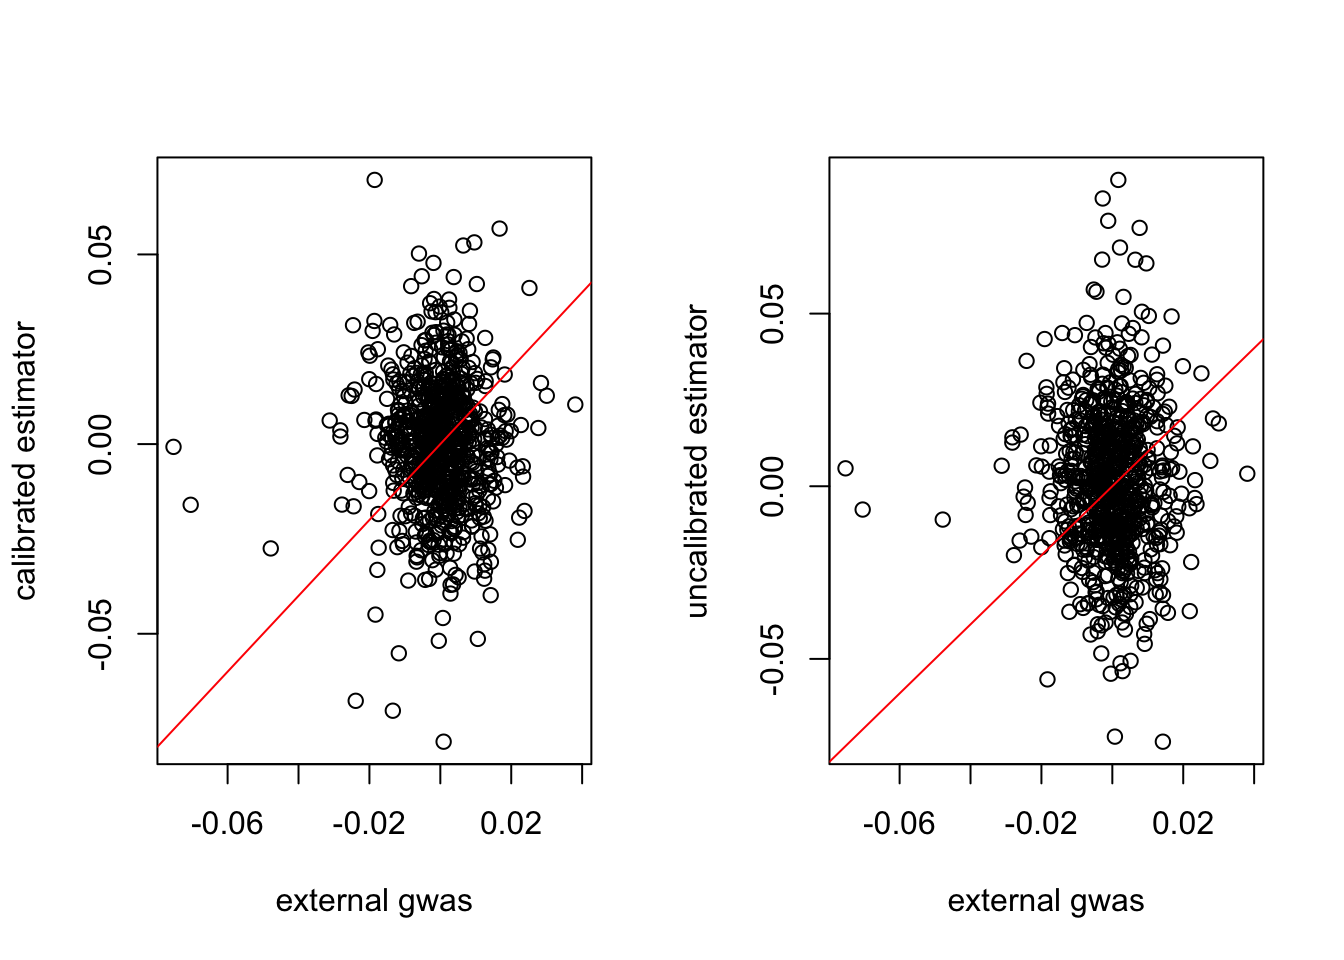
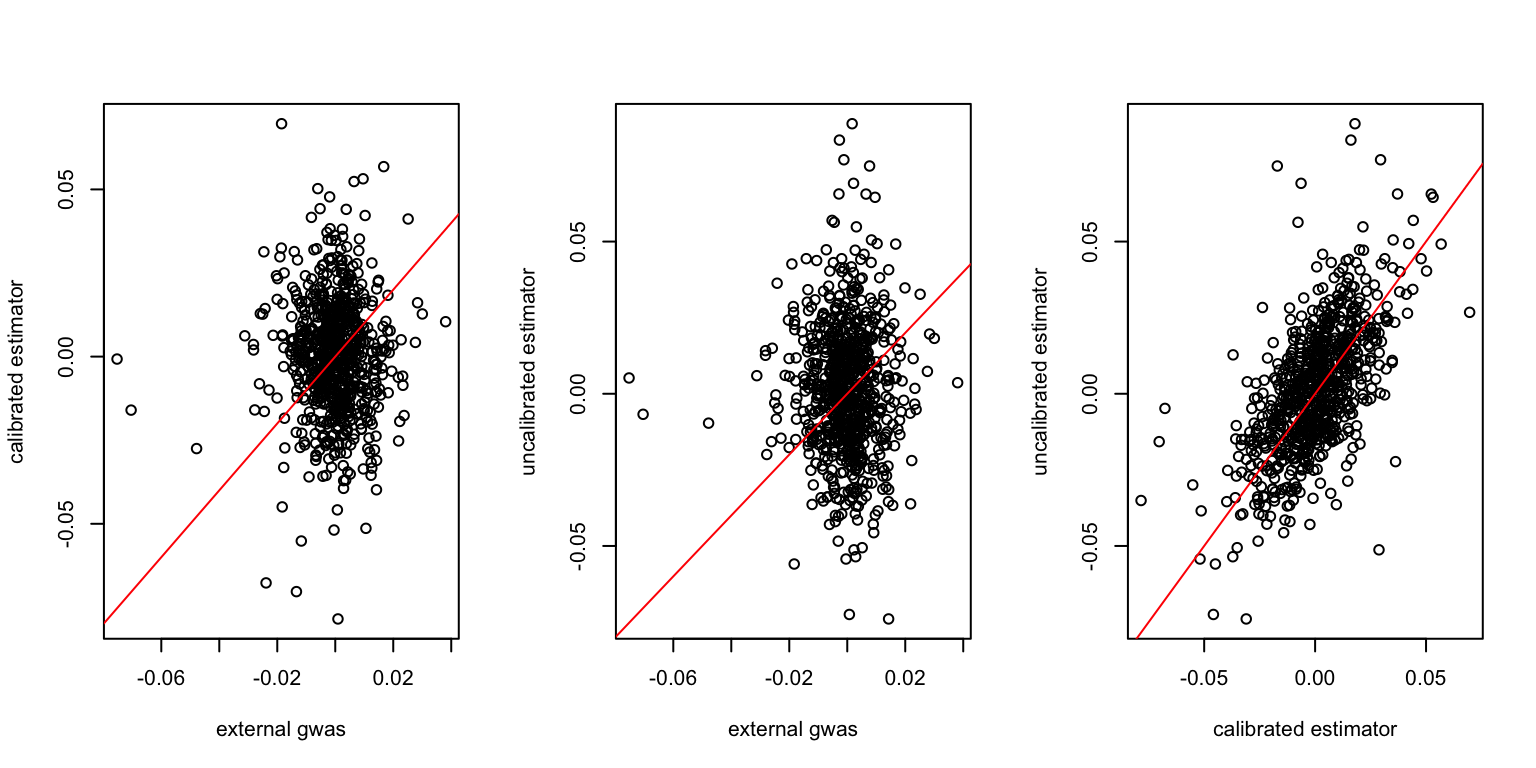
Build site.

diff --git a/docs/ukb_trait_calibration.html b/docs/ukb_trait_calibration.html
@@ -475,16 +475,16 @@ This reproducible <a href="http://rmarkdown.rstudio.com">R Markdown</a> analysis
 <div class="panel panel-default">
 <div class="panel-heading">
 <p class="panel-title">
-<a data-toggle="collapse" data-parent="#workflowr-checks" href="#strongRepositoryversionstrongahrefhttpsgithubcomyunqiyang0215simulationcalibratedmrtreea345290223d11e09a9ee22cf0b72735ce5e09314targetblanka345290a"> <span class="glyphicon glyphicon-ok text-success" aria-hidden="true"></span> <strong>Repository version:</strong> <a href="https://github.com/yunqiyang0215/simulation-calibrated-mr/tree/a345290223d11e09a9ee22cf0b72735ce5e09314" target="_blank">a345290</a> </a>
+<a data-toggle="collapse" data-parent="#workflowr-checks" href="#strongRepositoryversionstrongahrefhttpsgithubcomyunqiyang0215simulationcalibratedmrtreea435a22b6d7da3b3b8bcaa146761af53e4e9d98ftargetblanka435a22a"> <span class="glyphicon glyphicon-ok text-success" aria-hidden="true"></span> <strong>Repository version:</strong> <a href="https://github.com/yunqiyang0215/simulation-calibrated-mr/tree/a435a22b6d7da3b3b8bcaa146761af53e4e9d98f" target="_blank">a435a22</a> </a>
 </p>
 </div>
[2 lines of base64/hex data omitted]
 <div class="panel-body">
 <p>
 Great! You are using Git for version control. Tracking code development and connecting the code version to the results is critical for reproducibility.
 </p>
 <p>
-The results in this page were generated with repository version <a href="https://github.com/yunqiyang0215/simulation-calibrated-mr/tree/a345290223d11e09a9ee22cf0b72735ce5e09314" target="_blank">a345290</a>. See the <em>Past versions</em> tab to see a history of the changes made to the R Markdown and HTML files.
+The results in this page were generated with repository version <a href="https://github.com/yunqiyang0215/simulation-calibrated-mr/tree/a435a22b6d7da3b3b8bcaa146761af53e4e9d98f" target="_blank">a435a22</a>. See the <em>Past versions</em> tab to see a history of the changes made to the R Markdown and HTML files.
 </p>
 <p>
 Note that you need to be careful to ensure that all relevant files for the analysis have been committed to Git prior to generating the results (you can use <code>wflow_publish</code> or <code>wflow_git_commit</code>). workflowr only checks the R Markdown file, but you know if there are other scripts or data files that it depends on. Below is the status of the Git repository when the results were generated:
@@ -537,6 +537,40 @@ Message
 </tr>
 </thead>
 <tbody>
+<tr>
+<td>
+Rmd
+</td>
+<td>
+<a href="https://github.com/yunqiyang0215/simulation-calibrated-mr/blob/a435a22b6d7da3b3b8bcaa146761af53e4e9d98f/analysis/ukb_trait_calibration.Rmd" target="_blank">a435a22</a>
+</td>
+<td>
+yunqiyang0215
+</td>
+<td>
+2024-05-08
+</td>
+<td>
+wflow_publish("analysis/ukb_trait_calibration.Rmd")
+</td>
+</tr>
+<tr>
+<td>
+html
+</td>
+<td>
+<a href="https://rawcdn.githack.com/yunqiyang0215/simulation-calibrated-mr/ebc2aa69d20d86ef0f8fcb5b60826c60040afa6d/docs/ukb_trait_calibration.html" target="_blank">ebc2aa6</a>
+</td>
+<td>
+yunqiyang0215
+</td>
+<td>
+2024-05-08
+</td>
+<td>
+Build site.
+</td>
+</tr>
 <tr>
 <td>
 Rmd
@@ -601,12 +635,14 @@ wflow_publish("analysis/ukb_trait_calibration.Rmd")
 ext = read.csv(&quot;/Users/nicholeyang/Downloads/calibrated_estimator/real-data-analysis/combined_bmi.linear&quot;, sep = &quot;\t&quot;)</code></pre>
 <pre class="r"><code>ext2 = ext[1:784, ]</code></pre>
 <pre class="r"><code># check estimate scale
-par(mfrow = c(1,2))
+par(mfrow = c(1,3))
 plot(ext2$BETA[1:784], sumstat[, &quot;cali&quot;], xlab = &quot;external gwas&quot;, ylab = &quot;calibrated estimator&quot;)
 abline(a = 0, b = 1, col = &quot;red&quot;)
 plot(ext2$BETA[1:784], sumstat[, &quot;raw&quot;], xlab = &quot;external gwas&quot;, ylab = &quot;uncalibrated estimator&quot;)
+abline(a = 0, b = 1, col = &quot;red&quot;)
+plot(sumstat[, &quot;cali&quot;], sumstat[, &quot;raw&quot;], xlab = &quot;calibrated estimator&quot;, ylab = &quot;uncalibrated estimator&quot;)
 abline(a = 0, b = 1, col = &quot;red&quot;)</code></pre>
-<p><img src="figure/ukb_trait_calibration.Rmd/unnamed-chunk-3-1.png" width="672" style="display: block; margin: auto;" /></p>
+<p><img src="figure/ukb_trait_calibration.Rmd/unnamed-chunk-3-1.png" width="768" style="display: block; margin: auto;" /></p>
 <p>
 <button type="button" class="btn btn-default btn-xs btn-workflowr btn-workflowr-fig" data-toggle="collapse" data-target="#fig-unnamed-chunk-3-1">
 Past versions of unnamed-chunk-3-1.png
@@ -651,6 +687,43 @@ abline(a = 0, b = 1, col = &quot;red&quot;)
 plot(ext2$BETA[1:784]/ext2$SE, sumstat[, &quot;raw&quot;]/sqrt(sumstat[, &quot;raw.var&quot;]), xlab = &quot;external gwas&quot;, ylab = &quot;uncalibrated estimator&quot;)
 abline(a = 0, b = 1, col = &quot;red&quot;)</code></pre>
 <p><img src="figure/ukb_trait_calibration.Rmd/unnamed-chunk-4-1.png" width="672" style="display: block; margin: auto;" /></p>
+<p>
+<button type="button" class="btn btn-default btn-xs btn-workflowr btn-workflowr-fig" data-toggle="collapse" data-target="#fig-unnamed-chunk-4-1">
+Past versions of unnamed-chunk-4-1.png
+</button>
+</p>
+<div id="fig-unnamed-chunk-4-1" class="collapse">
+<div class="table-responsive">
+<table class="table table-condensed table-hover">
+<thead>
+<tr>
+<th>
+Version
+</th>
+<th>
+Author
+</th>
+<th>
+Date
+</th>
+</tr>
+</thead>
+<tbody>
+<tr>
+<td>
+<a href="https://github.com/yunqiyang0215/simulation-calibrated-mr/blob/ebc2aa69d20d86ef0f8fcb5b60826c60040afa6d/docs/figure/ukb_trait_calibration.Rmd/unnamed-chunk-4-1.png" target="_blank">ebc2aa6</a>
+</td>
+<td>
+yunqiyang0215
+</td>
+<td>
+2024-05-08
+</td>
+</tr>
+</tbody>
+</table>
+</div>
+</div>
 <pre class="r"><code>pval.ext = pnorm(abs(ext2$BETA/ext2$SE), lower.tail = FALSE)
 pval.cali = pnorm(abs(sumstat[, &quot;cali&quot;]/sqrt(sumstat[, &quot;cali.var&quot;])), lower.tail = FALSE)
 pval.uncali = pnorm(abs(sumstat[, &quot;raw&quot;]/sqrt(sumstat[, &quot;raw.var&quot;])), lower.tail = FALSE)</code></pre>
@@ -668,6 +741,43 @@ boxplot(sumstat[sumstat$cali.var &lt; 0.0005, c(&quot;cali.var&quot;, &quot;raw.
 boxplot(sumstat[sumstat$cali.var &gt; 0.0005, c(&quot;cali.var&quot;, &quot;raw.var&quot;)], ylab = &quot;variance&quot;)
 hist((sumstat[, &quot;raw.var&quot;] - sumstat[, &quot;cali.var&quot;])/sumstat[, &quot;raw.var&quot;], main = &quot;variance reduction&quot;, xlab = &quot;&quot;)</code></pre>
 <p><img src="figure/ukb_trait_calibration.Rmd/unnamed-chunk-7-1.png" width="768" style="display: block; margin: auto;" /></p>
+<p>
+<button type="button" class="btn btn-default btn-xs btn-workflowr btn-workflowr-fig" data-toggle="collapse" data-target="#fig-unnamed-chunk-7-1">
+Past versions of unnamed-chunk-7-1.png
+</button>
+</p>
+<div id="fig-unnamed-chunk-7-1" class="collapse">
+<div class="table-responsive">
+<table class="table table-condensed table-hover">
+<thead>
+<tr>
+<th>
+Version
+</th>
+<th>
+Author
+</th>
+<th>
+Date
+</th>
+</tr>
+</thead>
+<tbody>
+<tr>
+<td>
+<a href="https://github.com/yunqiyang0215/simulation-calibrated-mr/blob/ebc2aa69d20d86ef0f8fcb5b60826c60040afa6d/docs/figure/ukb_trait_calibration.Rmd/unnamed-chunk-7-1.png" target="_blank">ebc2aa6</a>
+</td>
+<td>
+yunqiyang0215
+</td>
+<td>
+2024-05-08
+</td>
+</tr>
+</tbody>
+</table>
+</div>
+</div>
 <br>
 <p>
 <button type="button" class="btn btn-default btn-workflowr btn-workflowr-sessioninfo" data-toggle="collapse" data-target="#workflowr-sessioninfo" style="display: block;">
